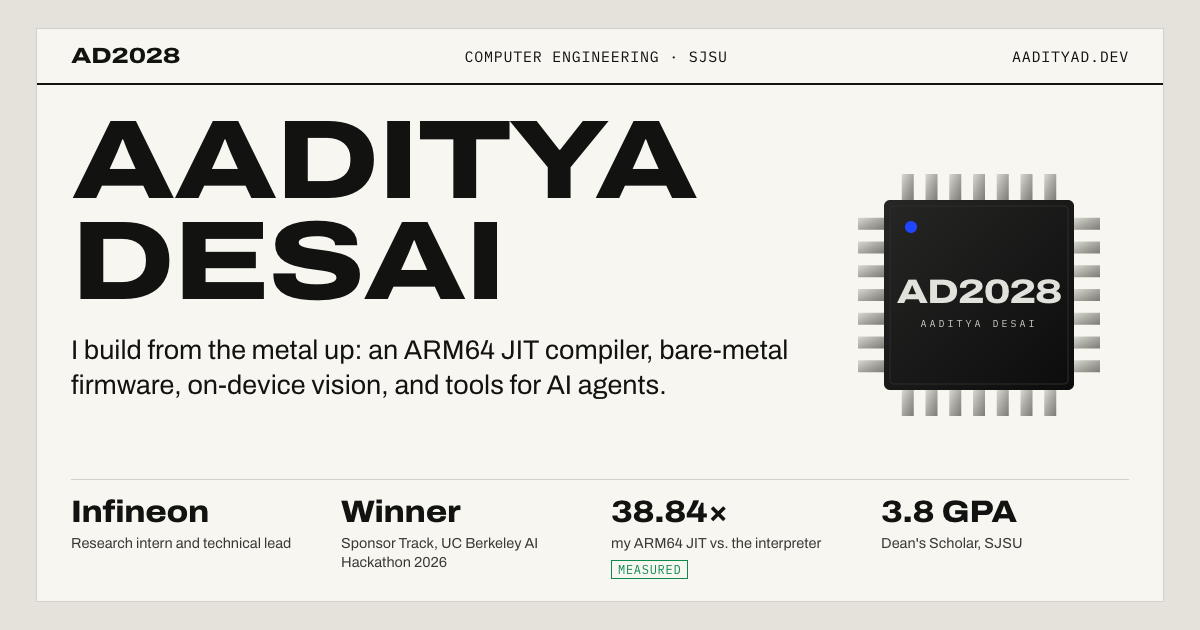
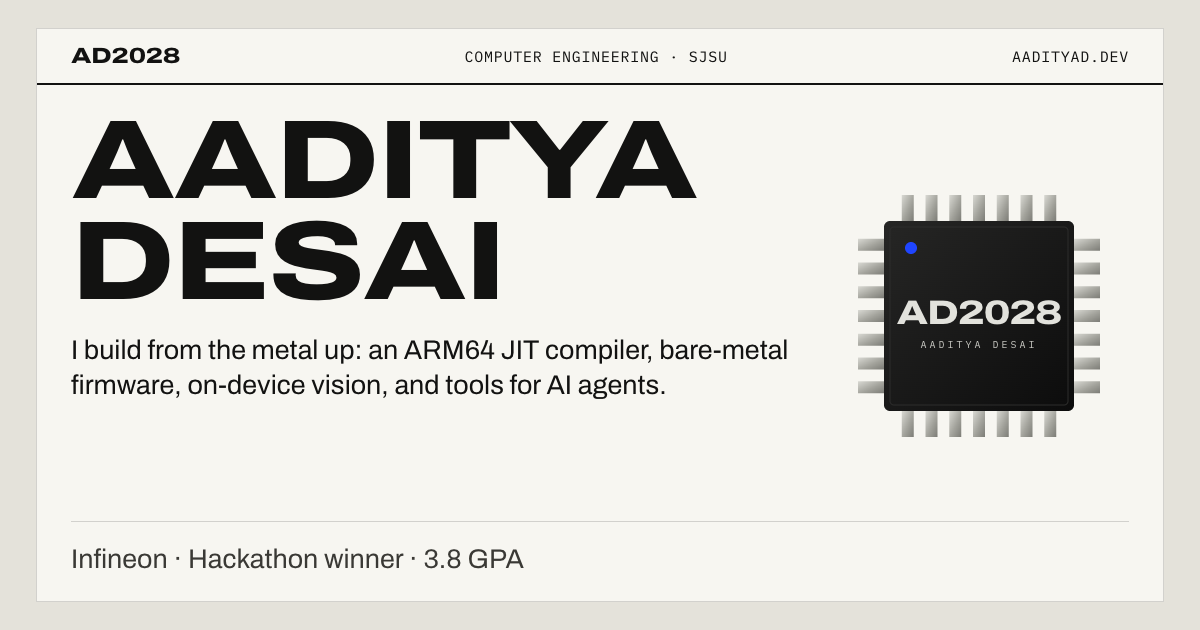
11 Add route metadata and social images for Work and Skills
Add sitemap entries and the Skills exit on the static 404. Generate source-backed home, Work and Skills cards with the existing external renderer.

diff --git a/scripts/og/skills.html b/scripts/og/skills.html
@@ -1,0 +1,52 @@
+<!doctype html>
+<html lang="en">
+<head>
+<meta charset="utf-8">
+<title>OG image: Skills</title>
+<link rel="preconnect" href="https://fonts.googleapis.com">
+<link rel="preconnect" href="https://fonts.gstatic.com" crossorigin>
+<link rel="stylesheet" href="https://fonts.googleapis.com/css2?family=Archivo:wdth,wght@62..125,100..900&family=IBM+Plex+Mono:wght@400;500;600&display=swap">
+<link rel="stylesheet" href="common.css">
+<style>
+  .body { flex: 1; display: grid; grid-template-columns: 1fr 360px; align-items: center; gap: 28px; padding: 24px 34px; }
+  h1 { font-size: 88px; line-height: 1; font-weight: 800; font-stretch: 125%; letter-spacing: -0.03em; }
+  ul { list-style: none; padding: 0; margin-top: 28px; }
+  li { font-family: var(--mono); font-size: 20px; line-height: 1.35; padding: 10px 0; border-top: 1px solid var(--hair); }
+  .chip { width: 360px; height: 360px; }
+</style>
+</head>
+<body>
+<div class="card">
+  <div class="bar"><b>Aaditya Desai</b><span>Computer Engineering · SJSU</span><span>aadityad.dev</span></div>
+  <div class="body">
+    <div><h1>Skills</h1><ul id="groups"></ul></div>
+    <svg class="chip" viewBox="0 0 300 300" role="img" aria-label="Aaditya Desai's skills as the 28 pins of a chip">
+      <g id="pins" fill="#a3a39c"></g>
+      <rect x="55" y="55" width="190" height="190" rx="6" fill="#151515"/>
+      <rect x="61" y="61" width="178" height="178" rx="4" fill="none" stroke="#333"/>
+      <circle cx="82" cy="82" r="6" fill="var(--accent)"/>
+      <text x="150" y="157" text-anchor="middle" fill="#e2e2dc" style="font-family:var(--sans);font-size:34px;font-weight:800;font-stretch:125%">AD2028</text>
+      <text x="150" y="181" text-anchor="middle" fill="#c9c9c3" style="font-family:var(--mono);font-size:10px;letter-spacing:3px">AADITYA DESAI</text>
+    </svg>
+  </div>
+</div>
+<script>
+  fetch("notes.json").then((r) => r.json()).then((d) => {
+    const list = document.getElementById("groups");
+    for (const group of d.pinGroups) {
+      const item = document.createElement("li"); item.textContent = group.name; list.append(item);
+    }
+    const pins = document.getElementById("pins");
+    d.pins.forEach((pin, i) => {
+      const offset = 55 + 190 / 8 * (i % 7 + 1);
+      const side = Math.floor(i / 7);
+      const coords = side === 0 ? [29, offset - 6, 26, 12] : side === 1 ? [245, offset - 6, 26, 12] : side === 2 ? [offset - 6, 29, 12, 26] : [offset - 6, 245, 12, 26];
+      const rect = document.createElementNS("http://www.w3.org/2000/svg", "rect");
+      ["x", "y", "width", "height"].forEach((key, index) => rect.setAttribute(key, coords[index]));
+      const title = document.createElementNS("http://www.w3.org/2000/svg", "title"); title.textContent = pin.full; rect.append(title); pins.append(rect);
+    });
+    document.fonts.ready.then(() => document.body.setAttribute("data-ready", ""));
+  });
+</script>
+</body>
+</html>

diff --git a/scripts/og/home.html b/scripts/og/home.html
@@ -12,11 +12,7 @@
   h1 { font-stretch: 125%; font-weight: 800; font-size: 112px; line-height: 0.9; letter-spacing: -0.02em; text-transform: uppercase; }
   .lead { margin-top: 20px; font-size: 27px; line-height: 1.32; color: var(--ink); max-width: 720px; }
   .chip { align-self: center; justify-self: center; width: 300px; height: 300px; }
-  .proof { display: grid; grid-template-columns: repeat(4, 1fr); border-top: 1px solid var(--hair); margin: 0 34px; padding: 16px 0 22px; gap: 22px; }
-  .proof div { min-width: 0; }
-  .proof .big { font-stretch: 112%; font-weight: 800; font-size: 31px; line-height: 1.05; letter-spacing: -0.01em; display: block; }
-  .proof .small { display: block; margin-top: 6px; font-size: 14.5px; line-height: 1.3; color: var(--ink-2); }
-  .proof .tag { margin-top: 7px; font-size: 12px; padding: 1px 6px; }
+  .proof { border-top: 1px solid var(--hair); margin: 0 34px; padding: 20px 0 24px; font-size: 27px; line-height: 1.3; color: var(--ink-2); }
 </style>
 </head>
 <body>
@@ -49,12 +45,7 @@
   for (let i = 1; i <= 7; i++) { const p = 55 + (190 / 8) * i; lead(29, p - 6, 26, 12); lead(245, p - 6, 26, 12); lead(p - 6, 29, 12, 26); lead(p - 6, 245, 12, 26); }
   fetch("notes.json").then((r) => r.json()).then((d) => {
     document.getElementById("lead").textContent = d.hero.lead;
-    document.getElementById("proof").innerHTML = d.proof.map((p) =>
-      `<div><span class="big"></span><span class="small"></span>${p.status ? `<span class="tag" data-s="${p.status}">${p.status}</span>` : ""}</div>`).join("");
-    document.querySelectorAll("#proof div").forEach((el, i) => {
-      el.querySelector(".big").textContent = d.proof[i].big;
-      el.querySelector(".small").textContent = d.proof[i].small;
-    });
+    document.getElementById("proof").textContent = d.facts.map((fact) => fact.big).join(" · ");
     document.fonts.ready.then(() => document.body.setAttribute("data-ready", ""));
   });
 </script>

diff --git a/scripts/og/index.html b/scripts/og/index.html
@@ -1,0 +1,39 @@
+<!doctype html>
+<html lang="en">
+<head>
+<meta charset="utf-8">
+<title>OG image: Work</title>
+<link rel="preconnect" href="https://fonts.googleapis.com">
+<link rel="preconnect" href="https://fonts.gstatic.com" crossorigin>
+<link rel="stylesheet" href="https://fonts.googleapis.com/css2?family=Archivo:wdth,wght@62..125,100..900&family=IBM+Plex+Mono:wght@400;500;600&display=swap">
+<link rel="stylesheet" href="common.css">
+<style>
+  .body { flex: 1; padding: 26px 34px; }
+  h1 { font-size: 88px; line-height: 1; font-weight: 800; font-stretch: 125%; letter-spacing: -0.03em; }
+  ol { display: grid; grid-template-columns: repeat(2, minmax(0, 1fr)); grid-auto-flow: column; grid-template-rows: repeat(5, auto); gap: 0 44px; list-style: none; padding: 0; margin-top: 24px; }
+  li { display: flex; align-items: baseline; gap: 18px; border-top: 1px solid var(--hair); padding: 11px 0; font-family: var(--mono); font-size: 25px; }
+  .number { color: var(--accent); font-size: 17px; }
+</style>
+</head>
+<body>
+<div class="card">
+  <div class="bar"><b>Aaditya Desai</b><span>Computer Engineering · SJSU</span><span>aadityad.dev</span></div>
+  <div class="body"><h1>Work</h1><ol id="projects"></ol></div>
+</div>
+<script>
+  fetch("notes.json").then((r) => r.json()).then((d) => {
+    const list = document.getElementById("projects");
+    for (const note of [...d.notes].sort((a, b) => a.order - b.order)) {
+      const row = document.createElement("li");
+      const number = document.createElement("span");
+      number.className = "number";
+      number.textContent = String(note.order).padStart(2, "0");
+      const title = document.createElement("span");
+      title.textContent = note.title;
+      row.append(number, title); list.append(row);
+    }
+    document.fonts.ready.then(() => document.body.setAttribute("data-ready", ""));
+  });
+</script>
+</body>
+</html>

diff --git a/app/work/page.tsx b/app/work/page.tsx
@@ -6,7 +6,7 @@ import { ALSO, NOTES, RESUME } from "../content";
 
 const BY_ORDER = [...NOTES].sort((a, b) => a.order - b.order);
 const description = "Ten things I built, one page each: an ARM64 JIT, an offline vision wearable, a context manager for AI coding agents, bare-metal probe firmware, and more.";
-const image = { url: "/og/home.png", width: 1200, height: 630, alt: "Work" };
+const image = { url: "/og/work.png", width: 1200, height: 630, alt: "Ten projects by Aaditya Desai, one page each" };
 
 export const metadata: Metadata = {
   title: "Work",

diff --git a/app/skills/page.tsx b/app/skills/page.tsx
@@ -4,7 +4,7 @@ import SkillsMap from "../components/skills/SkillsMap";
 import { RESUME } from "../content";
 
 const description = "28 skills, one per pin, and the projects that used each one.";
-const image = { url: "/og/home.png", width: 1200, height: 630, alt: "28 skills, one per pin, and the projects that used each one." };
+const image = { url: "/og/skills.png", width: 1200, height: 630, alt: "Aaditya Desai's skills as the 28 pins of a chip" };
 
 export const metadata: Metadata = {
   title: "Skills",

diff --git a/app/not-found.tsx b/app/not-found.tsx
@@ -13,7 +13,7 @@ export default function NotFound() {
         <h1>Aaditya Desai</h1>
         <p>Not found.</p>
         <p>
-          <Link href="/">Front page</Link> · <Link href="/work/" prefetch={false}>All work</Link> · <a href="/datasheet/">Full datasheet</a>
+          <Link href="/">Front page</Link> · <Link href="/work/" prefetch={false}>All work</Link> · <Link href="/skills/" prefetch={false}>Skills</Link> · <a href="/datasheet/">Full datasheet</a>
         </p>
       </main>
     </>

diff --git a/app/sitemap.ts b/app/sitemap.ts
@@ -7,7 +7,7 @@ const SITE = "https://aadityad.dev";
 
 export default function sitemap(): MetadataRoute.Sitemap {
   const lastModified = new Date();
-  return ["/", "/datasheet/", ...NOTES.map((n) => `/work/${n.id}/`)].map((path) => ({
+  return ["/", "/work/", "/skills/", "/datasheet/", ...NOTES.map((n) => `/work/${n.id}/`)].map((path) => ({
     url: `${SITE}${path}`,
     lastModified,
   }));

diff --git a/scripts/og/README.md b/scripts/og/README.md
@@ -1,7 +1,8 @@
 # Regenerating the Open Graph images
 
-`public/og/home.png` and `public/og/work/<slug>.png` (1200 x 630) are rendered from
-`home.html` and `work.html?slug=<id>` in this folder. Both read `notes.json`, which is
+`public/og/home.png`, `public/og/work.png`, `public/og/skills.png` and
+`public/og/work/<slug>.png` (1200 x 630) are rendered from `home.html`, `index.html`,
+`skills.html` and `work.html?slug=<id>` in this folder. All read `notes.json`, which is
 generated from `app/content.ts`, so the text on the images can never drift from the site.
 `public/og/datasheet.png` is the datasheet-era image, moved from `public/og.png`.
 
@@ -10,6 +11,9 @@ generated from `app/content.ts`, so the text on the images can never drift from 
    ```
    node scripts/og/notes.mjs
    ```
+
+   The generator resolves the content module's extensionless local TypeScript imports
+   with Node's built-in module hooks. No extra package is needed.
 
 2. Render the PNGs. The script is not part of the repo because it needs Playwright, which
    the site does not depend on. Save it outside the repo (for example `/tmp/og-render.mjs`
@@ -48,6 +52,8 @@ const shoot = async (url, out) => {
   console.log("wrote", out);
 };
 await shoot(`${base}/home.html`, "home.png");
+await shoot(`${base}/index.html`, "work.png");
+await shoot(`${base}/skills.html`, "skills.png");
 for (const n of notes) await shoot(`${base}/work.html?slug=${n.id}`, `work/${n.id}.png`);
 await browser.close();
 server.close();
